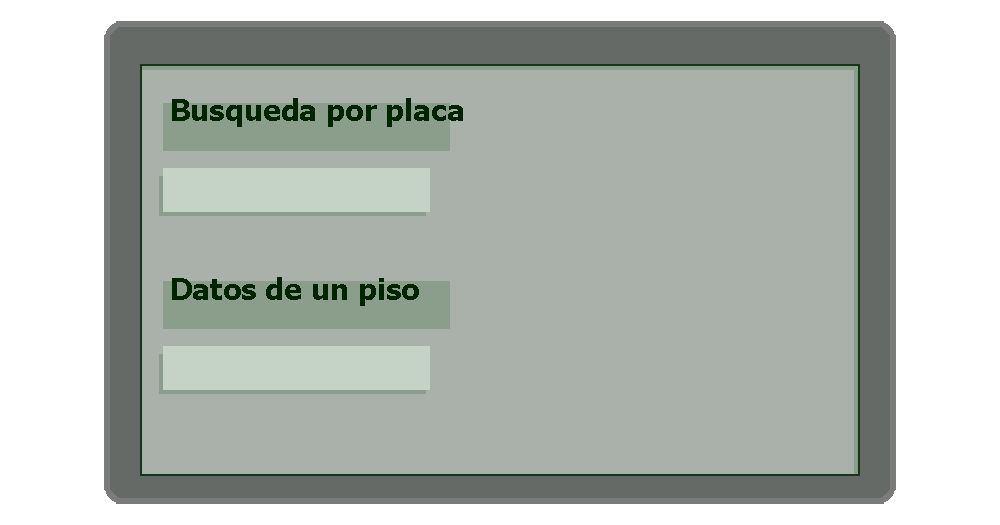
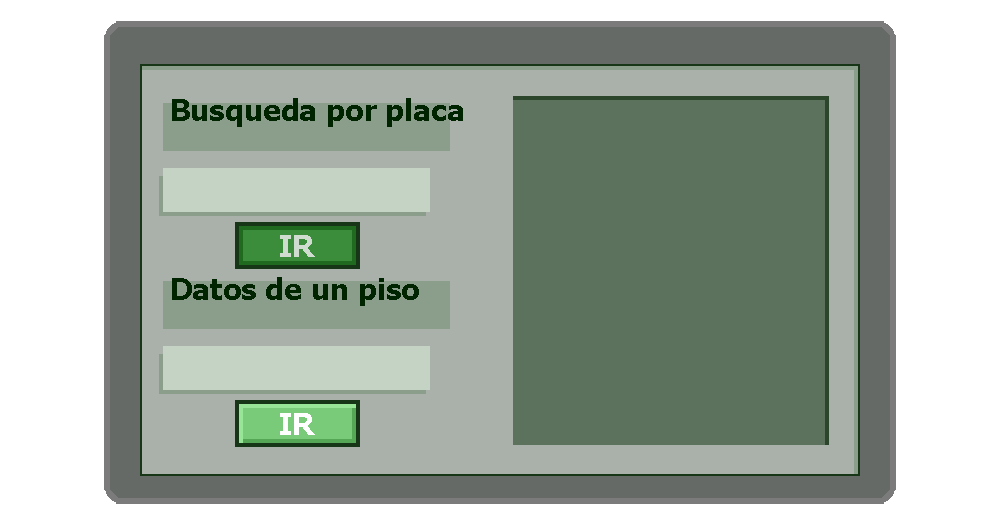
finishing tab3

Changed region(s): [[0.496, 0.1829, 0.837, 0.8533], [0.217, 0.3962, 0.372, 0.5181], [0.217, 0.7619, 0.372, 0.8533]]

diff --git a/main/window.py b/main/window.py
@@ -5,10 +5,9 @@ from core.parqueadero.vehiculos.TipoVehiculo import TipoVehiculo
 from core.parqueadero.vehiculos.Vehiculo import Vehiculo
 from core.pygame.Button import Button
 from core.pygame.Image import Image
+from core.pygame.TextInput import TextInput
 
 import pygame
-
-from main.core.pygame.TextInput import TextInput
 
 #display stuff
 SCREEN_HEIGHT = 500
@@ -37,10 +36,13 @@ tab2inputs = {
     'estado': TextInput(pygame.Rect(191,222,90,32), 6, False),
     'response': TextInput(pygame.Rect(70,340,200,32), 50,False)
 }
+
 tab3inputs = {
-    'placa': TextInput(pygame.Rect(163,157,267,44)),
-    'piso': TextInput(pygame.Rect(163,335,267,44))
+    'placa': TextInput(pygame.Rect(163,157,267,44), 21),
+    'piso': TextInput(pygame.Rect(163,335,267,44), 21),
 }
+
+tab3disp = TextInput(pygame.Rect(513,86,312,345), 20000, False)
 
 #Surfaces que se van a usar
 titleImg = pygame.image.load('core/assets/title.png').convert_alpha()
@@ -100,7 +102,7 @@ tab3bg = Image(SCREEN_WIDTH/2, SCREEN_HEIGHT/2, tab3refImg, screen)
 tab3.append(tab3bg)
 
 
-parqueadero.addVehicle(0, "A2", Vehiculo("MXN569", TipoVehiculo.car), "ALGUNAHORAAHÍ")
+parqueadero.addVehicle(0, "A2", Vehiculo("MXN569", TipoVehiculo.car, "A2"), "ALGUNAHORAAHÍ")
 
 #ir celda por celda y revisar si el lote está ocupado
 #dependiendo de eso, sacar un PixelArray del carLotImg, usar PixelArray.replace() para
@@ -161,6 +163,7 @@ floor = 0
 row = 0
 current_col = -1
 currentSlot = ''
+carList = []
 while run:
     screen.fill((202, 228, 241))
     
@@ -261,13 +264,33 @@ while run:
                 tab -= 1
             
             if searchByCarBtn.draw():
-                print("an why he ourple")
+                placa = tab3inputs['placa'].getText()
+                if len(placa) != 6:
+                    tab3inputs['placa'].setText("Placa inválida.")
+                elif not (placa[:3].isalpha() and placa[3:].isdigit()):
+                    tab3inputs['placa'].setText('La placa ingresada no es válida')
+                else:
+                    carList = [str(parqueadero.getVehicle(placa)), str(parqueadero.getVehicle(placa).getPos())]
+                
+                    
             
             if searchFloorBtn.draw():
-                print("an whyhe ouprpl")
+                try:
+                    index = int(tab3inputs['piso'].getText())-1
+                    vehicles = parqueadero.getVehiclesInFloor(index)
+                    listToPass = []
+                    for v in vehicles:
+                        listToPass.append(str(v))
+                    carList = listToPass
+                except:
+                    tab3inputs['piso'].setText("Piso inválido.")
 
             for textinput in tab3inputs.values():
                 textinput.draw(screen, surface)
+            
+            tab3disp.drawList(screen, surface, carList)
+            
+            
     
     #Events
     for event in pygame.event.get():

diff --git a/main/core/parqueadero/vehiculos/Vehiculo.py b/main/core/parqueadero/vehiculos/Vehiculo.py
@@ -1,10 +1,11 @@
-from main.core.parqueadero.vehiculos.TipoVehiculo import TipoVehiculo
+from core.parqueadero.vehiculos.TipoVehiculo import TipoVehiculo
 
 
 class Vehiculo():
-    def __init__(self, placa, type):
+    def __init__(self, placa:str, type, pos):
         self.placa = placa
         self.type = type
+        self.pos = pos
 
     #La "key" del vehiculo es su placa. Útil para saber si ya existe un vehículo con la placa
     def keyEquals(self, key) -> bool:
@@ -17,10 +18,14 @@ class Vehiculo():
         return False
     
     def __str__(self):
-        return "{ "+f"{self.placa} - {self.type}"+" }"
+        msg = str(self.placa) +", "+ str(self.type)
+        return msg
 
     def getPlaca(self) -> str:
         return self.placa
 
     def getType(self) -> TipoVehiculo:
         return self.type
+    
+    def getPos(self) -> str:
+        return self.pos

diff --git a/main/core/parqueadero/Parqueadero.py b/main/core/parqueadero/Parqueadero.py
@@ -18,13 +18,16 @@ class Parqueadero():
 
     def addVehicle(self, floorNumber, positionName, placa, hour) -> bool:
         position = self.getFloor(floorNumber).getSlotByName(positionName)
-        vehicle = Vehiculo(placa, position.getType())
+        vehicle = Vehiculo(placa, position.getType(), "F"+str(floorNumber+1)+positionName)
         if not self.vehicles.containsObject(vehicle):
             position.fillSlot(vehicle)
-            self.vehicles.append(vehicle)
+            self.addVehicleToList(vehicle)
             self.horasIngreso.append(HoraIngreso(vehicle.getPlaca(), hour))
             return True
         return False
+
+    def addVehicleToList(self, vehicle):
+        self.vehicles.append(vehicle)
 
     def removeVehicle(self, position, hora_salida) -> bool:
         self.horasIngreso.delete(position.getVehicle().getPlaca())

diff --git a/main/core/pygame/TextInput.py b/main/core/pygame/TextInput.py
@@ -38,6 +38,13 @@ class TextInput():
 
         screen.blit(surface, (0,0))
         screen.blit(text_surface, (self.rect.x + 5, self.rect.y + 4*((self.rect.h - 24)//8+1)))
+        
+    def drawList(self, screen, surface,  stringList):
+        pygame.draw.rect(surface, self.color, self.rect)
+        screen.blit(surface, (0,0))
+        for i in range(len(stringList)):
+            text_surface = self.font.render(stringList[i], False, (0,0,0))
+            screen.blit(text_surface, (self.rect.x + 5, self.rect.y + 4*(i*5)))
 
     def getText(self) -> str:
         return self.text

diff --git a/main/Main.py b/main/Main.py
@@ -5,6 +5,6 @@ from main.core.parqueadero.vehiculos.Vehiculo import Vehiculo
 
 parqueadero = Parqueadero()
 
-parqueadero.addVehicle(0, "A2", Vehiculo("MXN569", TipoVehiculo.car), "ALGUNAHORAAHÍ")
+parqueadero.addVehicle(0, "A2", Vehiculo("MXN569", TipoVehiculo.car, "F1A2"), "ALGUNAHORAAHÍ")
 
 parqueadero.getFloor(0).getSlotByName("A2").print()

diff --git a/main/core/parqueadero/pisos/Posicion.py b/main/core/parqueadero/pisos/Posicion.py
@@ -1,5 +1,5 @@
-from main.core.parqueadero.vehiculos import Vehiculo
-from main.core.parqueadero.vehiculos.TipoVehiculo import TipoVehiculo
+from core.parqueadero.vehiculos import Vehiculo
+from core.parqueadero.vehiculos.TipoVehiculo import TipoVehiculo
 
 
 class Posicion():
